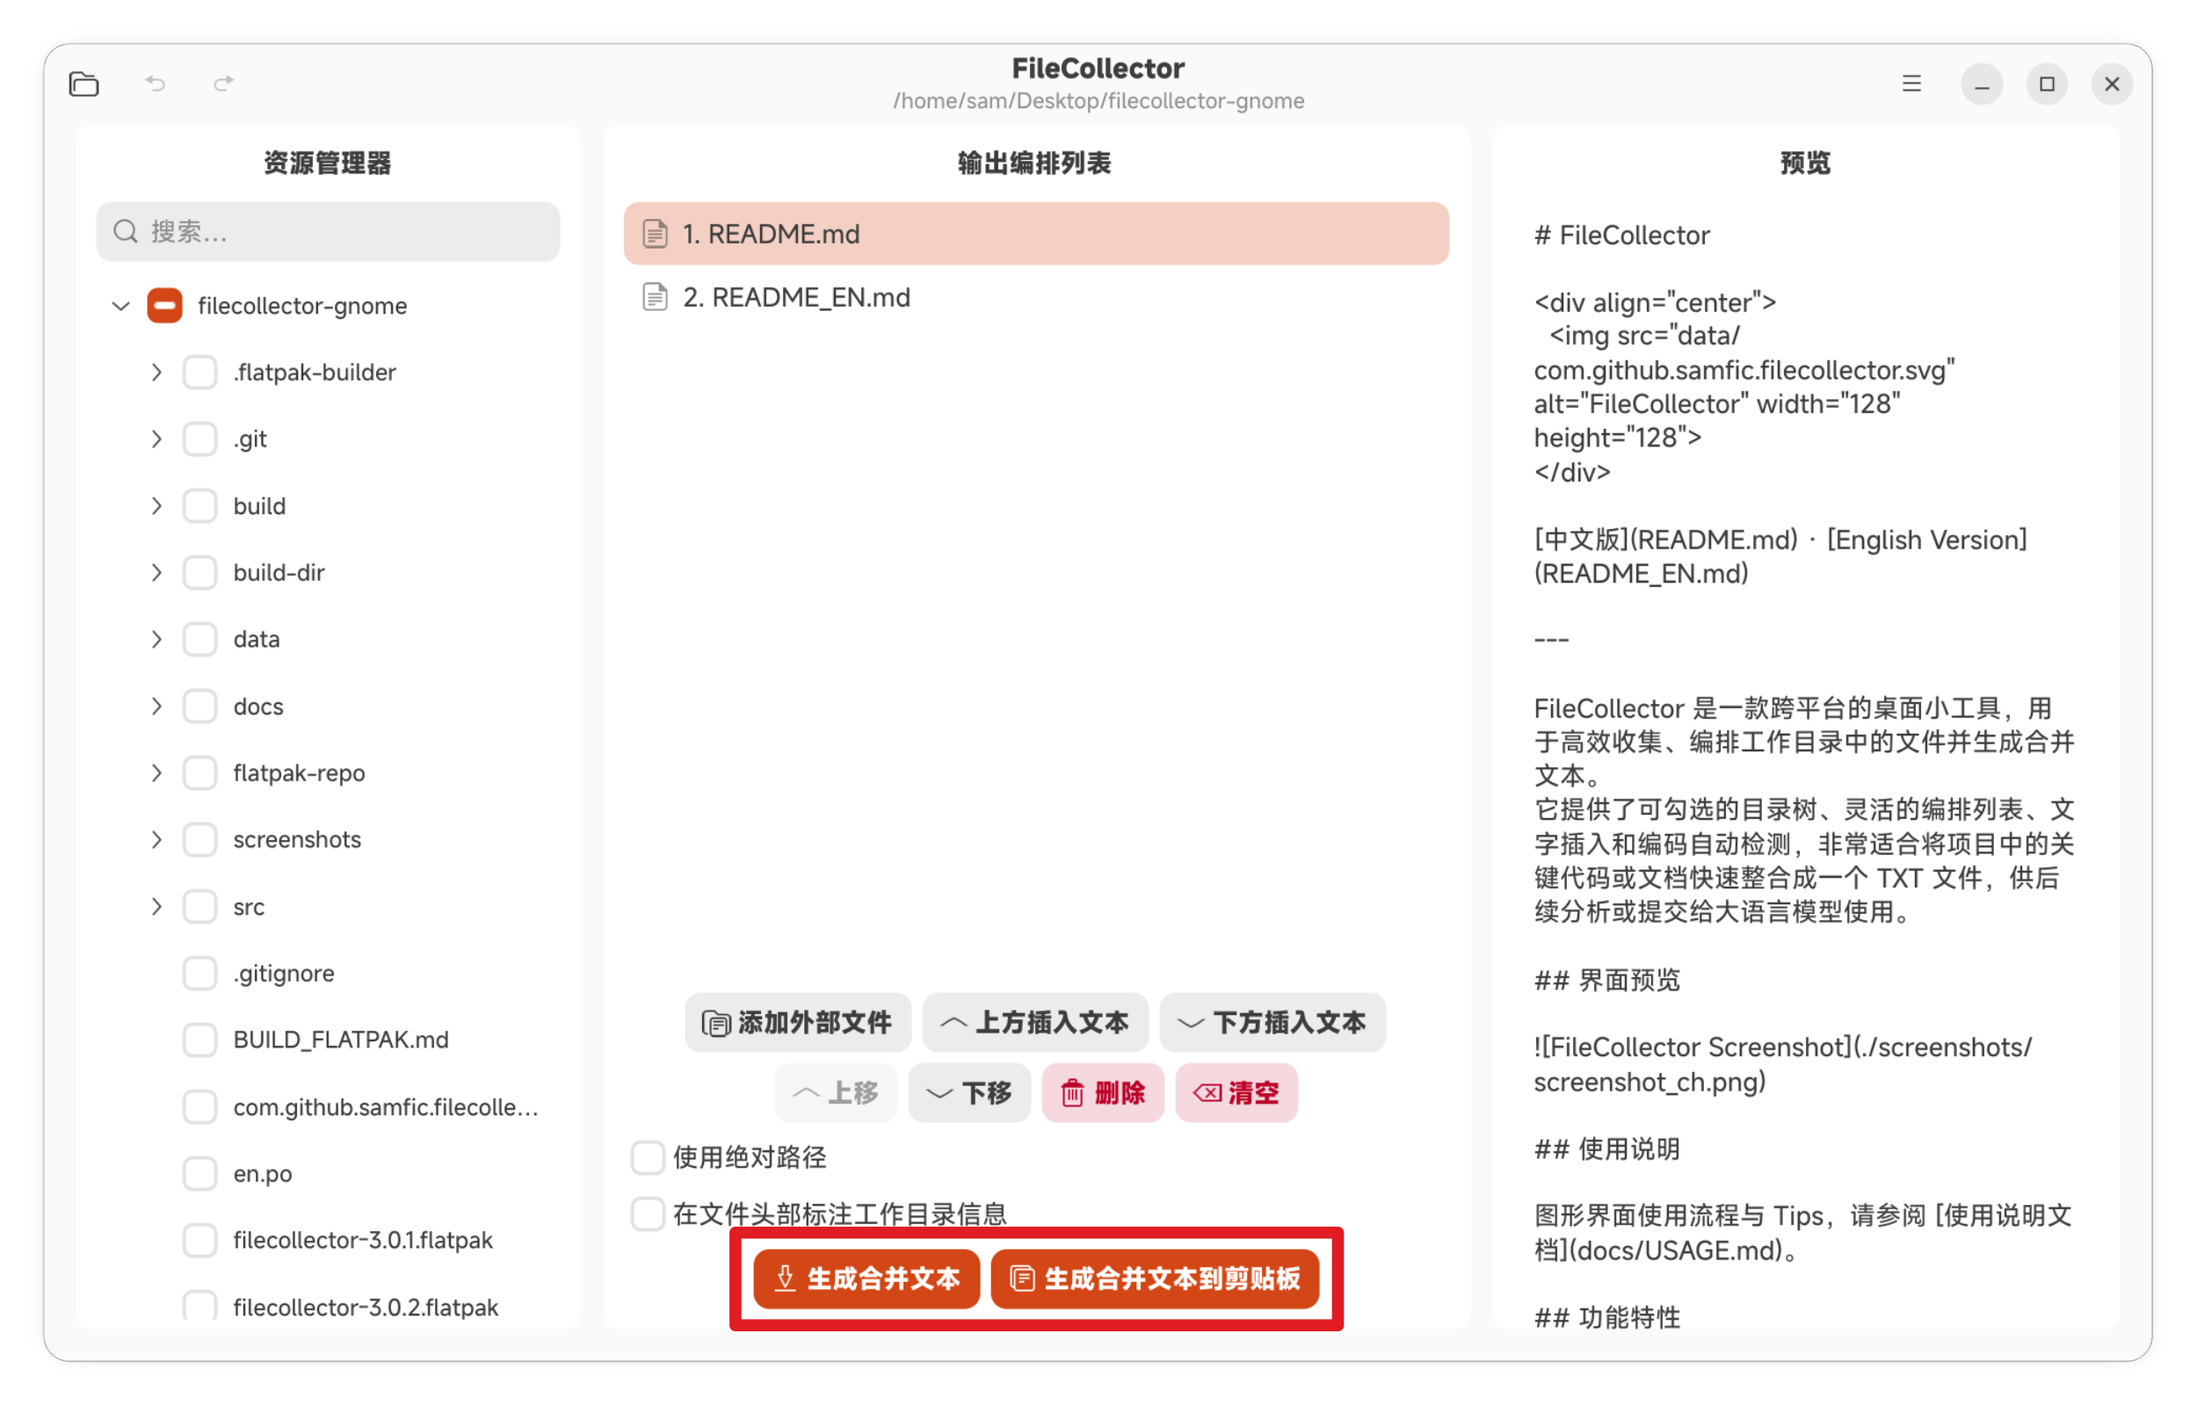
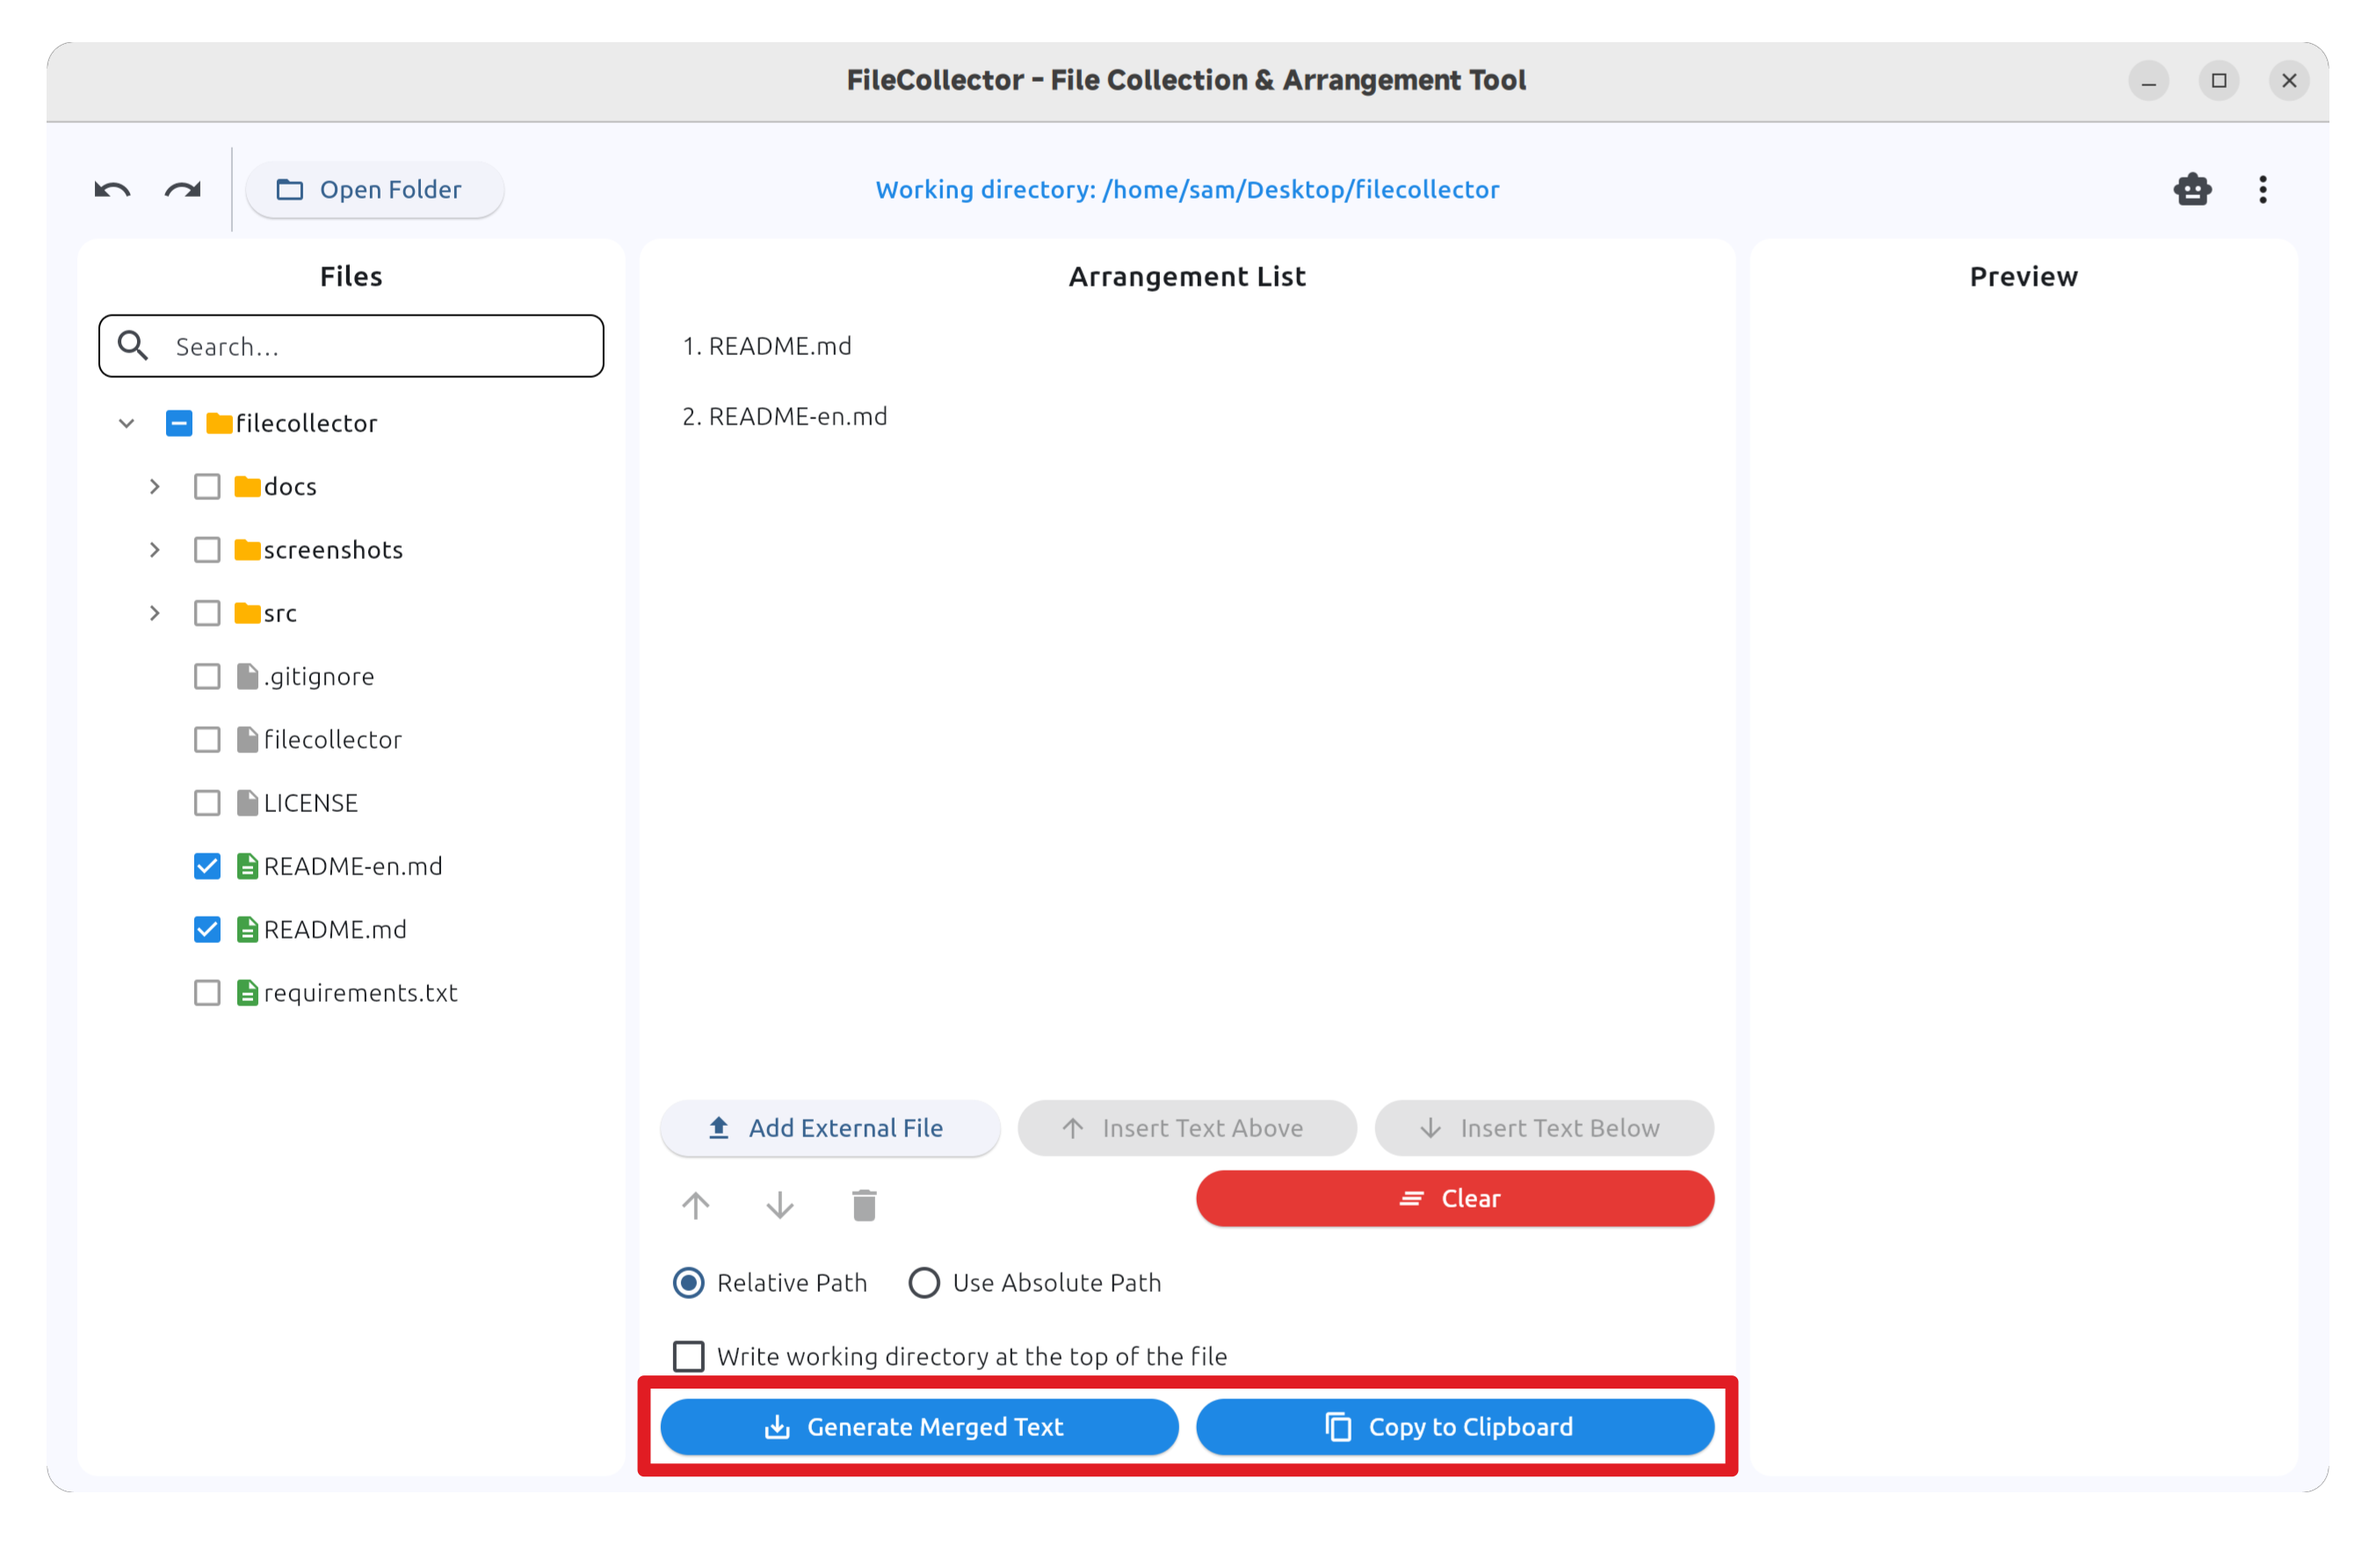
docs: 更新文档图片与章节编号
调整了文档中的章节顺序，替换了对应功能的截图文件，修正了图片引用路径和编号，统一了中英文文档的格式

diff --git a/docs/USAGE_EN.md b/docs/USAGE_EN.md
@@ -81,38 +81,32 @@ Click any text file in either the file explorer or the output organization list 
 
 ![Tip 1: Quick File Preview](./images/tip01-preview.png)
 
-### 2. Customizable Panel Layout
-
-The dividers between the file explorer, the output organization list, and the preview area are all draggable. You can freely resize each region to suit the current task.
-
-![Tip 2: Customizable Panel Layout](./images/tip02-resize-panels.png)
-
-### 3. Common Phrase Management
+### 2. Common Phrase Management
 
 Access the **Common Phrases** manager from the top-right menu:
 
 - Click any phrase in the list to edit and maintain its content.
 - When using the **Insert Text Above** or **Insert Text Below** actions, the phrase picker lets you quickly insert a predefined phrase (e.g., a fixed comment format, a problem description template, etc.) with a single click.
 
-![Tip 3: Common Phrase Management](./images/tip03-phrases.png)
+![Tip 2: Common Phrase Management](./images/tip02-phrases.png)
 
-### 4. Save and Open Projects
+### 3. Save and Open Projects
 
 Use the top-right menu to save or open project files. A saved project records the working directory, file selection state, and output organization list, enabling you to:
 
 - Restore the previous work state with a single click on next launch.
 - Share the organization result with teammates for collaborative handoff.
 
-![Tip 4: Save and Open Projects](./images/tip04-project-management.png)
+![Tip 3: Save and Open Projects](./images/tip03-project-management.png)
 
-### 5. Edit Inserted Text Items
+### 4. Edit Inserted Text Items
 
 Double-click any text item that has been inserted into the output organization list to edit its content. This is handy for tweaking comments or notes already added during organization — no need to delete and re-insert.
 
-![Tip 5: Edit Inserted Text Items](./images/tip05-edit-text.png)
+![Tip 4: Edit Inserted Text Items](./images/tip04-edit-text.png)
 
-### 6. File Search
+### 5. File Search
 
 After selecting a working directory, use the search box at the top of the left-side file explorer to quickly find files by name. This is especially useful in large projects, allowing you to locate target files without manually expanding multiple levels of directories.
 
-![Tip 6: File Search](./images/tip06-search.png)
+![Tip 5: File Search](./images/tip05-search.png)

diff --git a/docs/USAGE.md b/docs/USAGE.md
@@ -81,39 +81,33 @@
 
 ![Tips 1：快速预览文件内容](./images/tip01-preview.png)
 
-### 2. 自定义面板布局
-
-资源管理器区、输出编排列表区与预览区之间的分割线均支持拖拽。您可以根据当前任务自由调整各区域的大小。
-
-![Tips 2：自定义面板布局](./images/tip02-resize-panels.png)
-
-### 3. 常用语管理
+### 2. 常用语管理
 
 通过右上角菜单的「常用语」入口，可打开常用语管理界面：
 
 - 单击某一条常用语，可对其内容进行编辑与维护。
 - 在使用「上方插入文本」或「下方插入文本」功能时，可通过常用语选择器一键插入预定义的常用语（例如固定格式的注释、问题描述模板等）。
 
-![Tips 3：常用语管理](./images/tip03-phrases.png)
+![Tips 2：常用语管理](./images/tip02-phrases.png)
 
 
-### 4. 项目的保存与打开
+### 3. 项目的保存与打开
 
 通过右上角菜单可保存或打开项目文件。保存的项目会同时记录工作区路径、文件勾选状态与输出编排列表内容，便于：
 
 - 下次启动时一键恢复到之前的工作状态。
 - 与团队成员共享编排结果，实现协作交接。
 
-![Tips 4：项目的保存与打开](./images/tip04-project-management.png)
+![Tips 3：项目的保存与打开](./images/tip03-project-management.png)
 
-### 5. 编辑已插入的文本
+### 4. 编辑已插入的文本
 
 双击输出编排列表中以「文本」形式插入的项，即可重新编辑其内容。该功能便于在编排过程中对已添加的注释或说明进行调整，无需先删除再重新插入。
 
-![Tips 5：编辑已插入的文本](./images/tip05-edit-text.png)
+![Tips 4：编辑已插入的文本](./images/tip04-edit-text.png)
 
-### 6. 文件搜索
+### 5. 文件搜索
 
 选定工作目录后，可在左侧资源管理器顶部的搜索框中按文件名快速搜索。该功能在大型项目中尤为实用，能够帮助您迅速定位目标文件，而无需手动展开多层目录。
 
-![Tips 6：文件搜索](./images/tip06-search.png)
+![Tips 5：文件搜索](./images/tip05-search.png)
